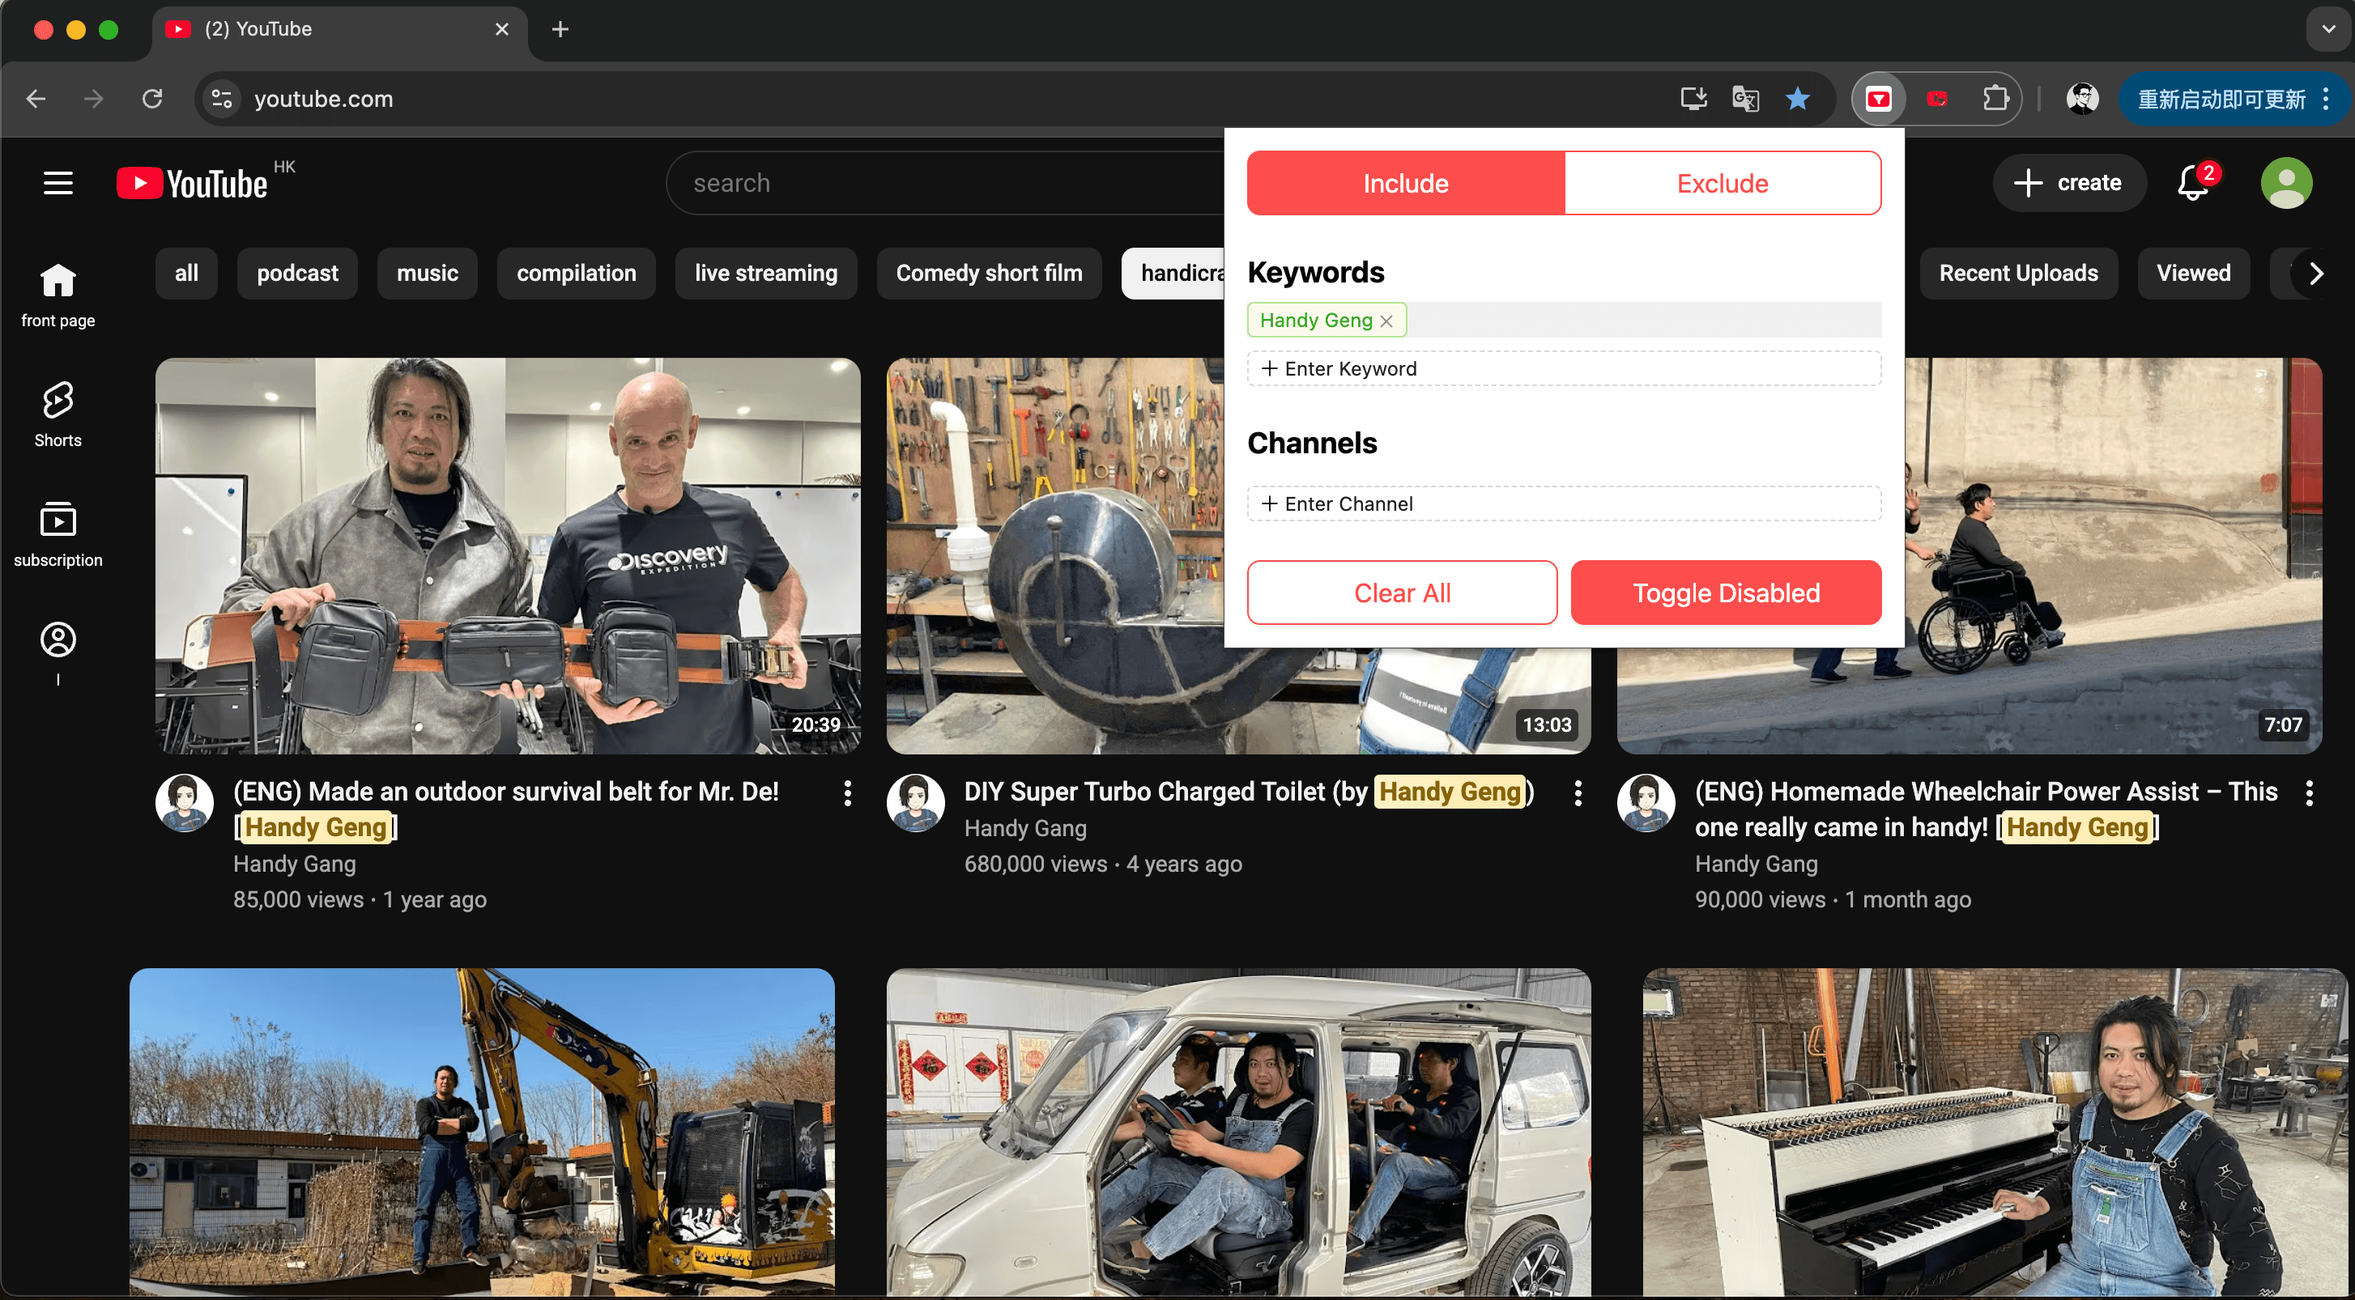
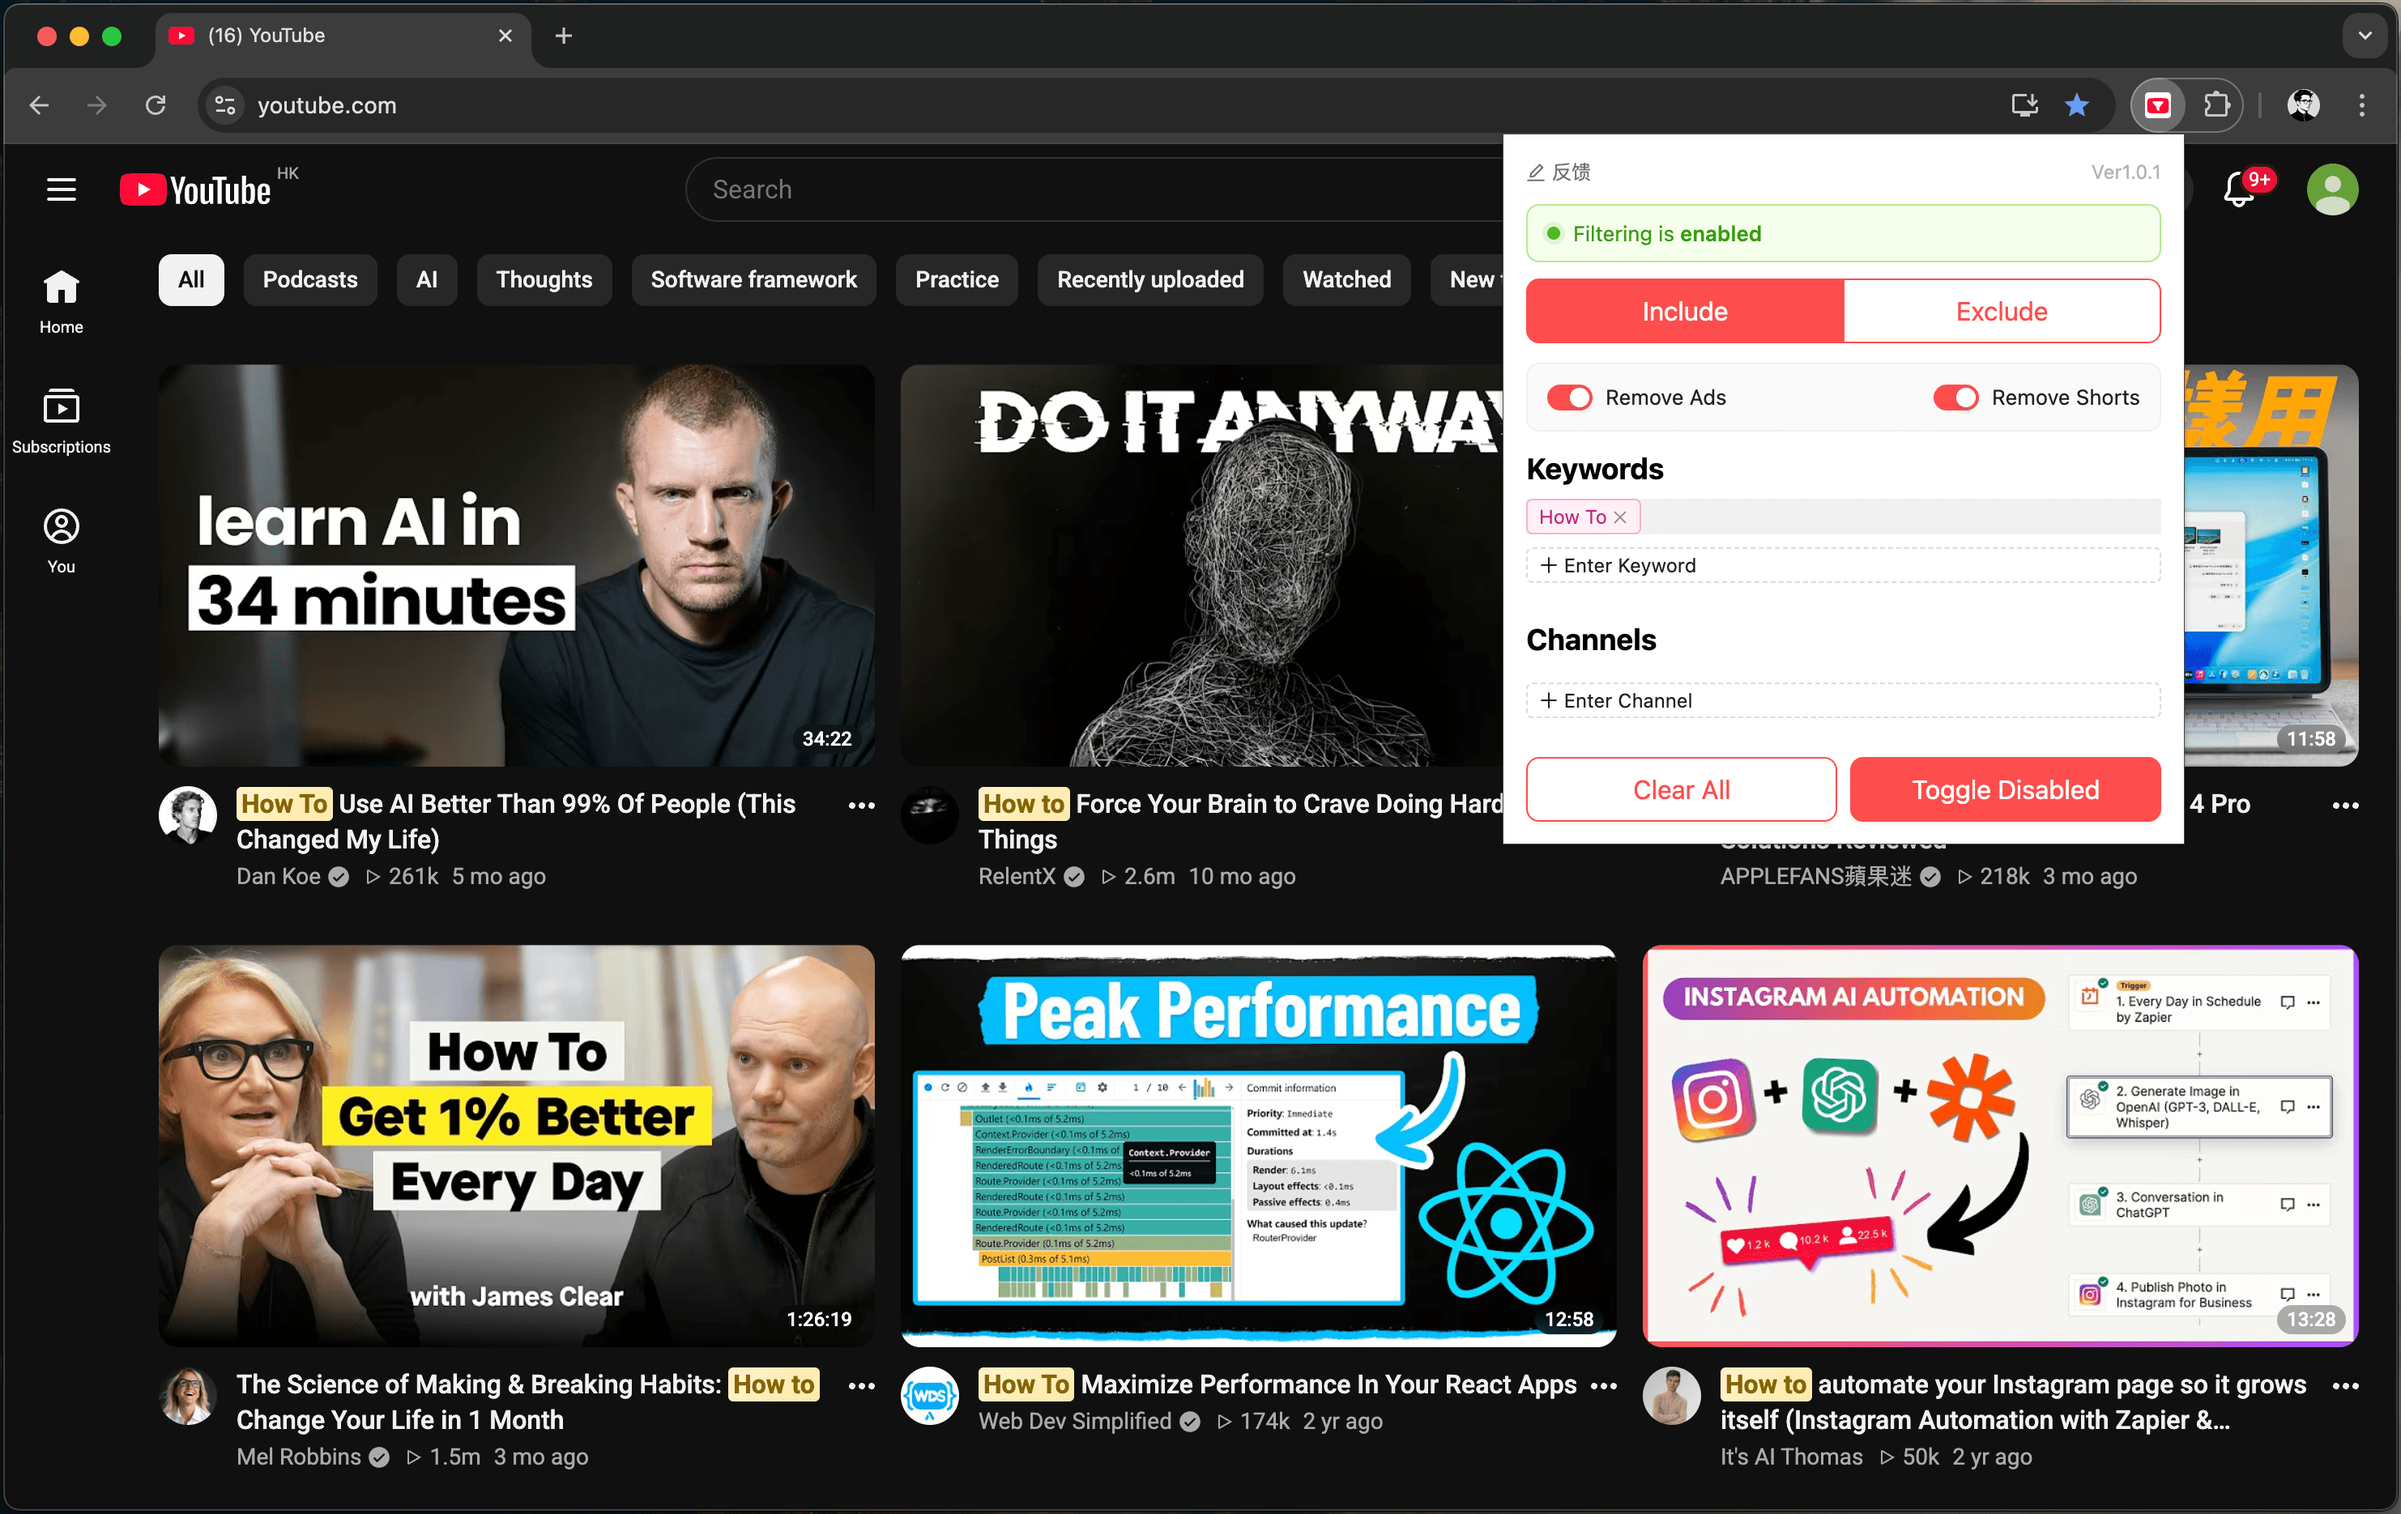
feat(filterYouTube): 添加新功能

diff --git a/src/tabs/login.css b/src/tabs/login.css
@@ -145,10 +145,65 @@ html,body {
 }
 
 .show-main-pic {
-  margin: 10px auto 40px;
+  margin: 10px auto 60px;
   width: 60%;
-  border-radius: 4px;
-  box-shadow: 0 20px 40px rgba(0, 0, 0, 0.3);
+  border-radius: 16px;
+  box-shadow: 
+    0 25px 50px rgba(0, 0, 0, 0.4),
+    0 0 0 1px rgba(255, 255, 255, 0.05),
+    inset 0 1px 0 rgba(255, 255, 255, 0.1);
+  border: 1px solid rgba(255, 255, 255, 0.08);
+  transform: perspective(1000px) rotateX(2deg) scale(0.98);
+  transition: all 0.6s cubic-bezier(0.4, 0, 0.2, 1);
+  position: relative;
+  overflow: hidden;
+  backdrop-filter: blur(10px);
+  background: linear-gradient(135deg, rgba(255, 255, 255, 0.02), rgba(255, 255, 255, 0.01));
+}
+
+.show-main-pic:hover {
+  transform: perspective(1000px) rotateX(0deg) scale(1.02);
+  box-shadow: 
+    0 35px 70px rgba(255, 0, 0, 0.2),
+    0 0 0 1px rgba(255, 0, 0, 0.1),
+    inset 0 1px 0 rgba(255, 255, 255, 0.15);
+  border-color: rgba(255, 0, 0, 0.3);
+}
+
+.show-main-pic::before {
+  content: '';
+  position: absolute;
+  top: 0;
+  left: -100%;
+  width: 100%;
+  height: 100%;
+  background: linear-gradient(
+    90deg,
+    transparent,
+    rgba(255, 0, 0, 0.1),
+    transparent
+  );
+  transition: left 0.8s ease;
+}
+
+.show-main-pic:hover::before {
+  left: 100%;
+}
+
+.show-main-pic::after {
+  content: '';
+  position: absolute;
+  top: 0;
+  left: 0;
+  right: 0;
+  height: 2px;
+  background: linear-gradient(to right, transparent, #ff0000, transparent);
+  opacity: 0;
+  transition: opacity 0.4s ease;
+}
+
+.show-main-pic:hover::after {
+  opacity: 1;
 }
 
 .main-color-pic1 {
@@ -243,6 +298,13 @@ html,body {
   
   .show-main-pic {
     width: 90% !important;
+    border-radius: 12px !important;
+    margin: 10px auto 40px !important;
+    transform: perspective(800px) rotateX(1deg) scale(0.98) !important;
+  }
+  
+  .show-main-pic:hover {
+    transform: perspective(800px) rotateX(0deg) scale(1.01) !important;
   }
   
   .login-inner h1 {

diff --git a/src/tabs/login.tsx b/src/tabs/login.tsx
@@ -565,7 +565,7 @@ const IndexOptions = () => {
 
   // 跳转视频页
   const handleVideoPage = () => {
-    window.open('https://www.youtube.com/watch?v=gElydPOExYU', '_blank')
+    window.open('https://www.youtube.com/watch?v=P5BHl3LOy7A', '_blank')
   }
 
   return (
